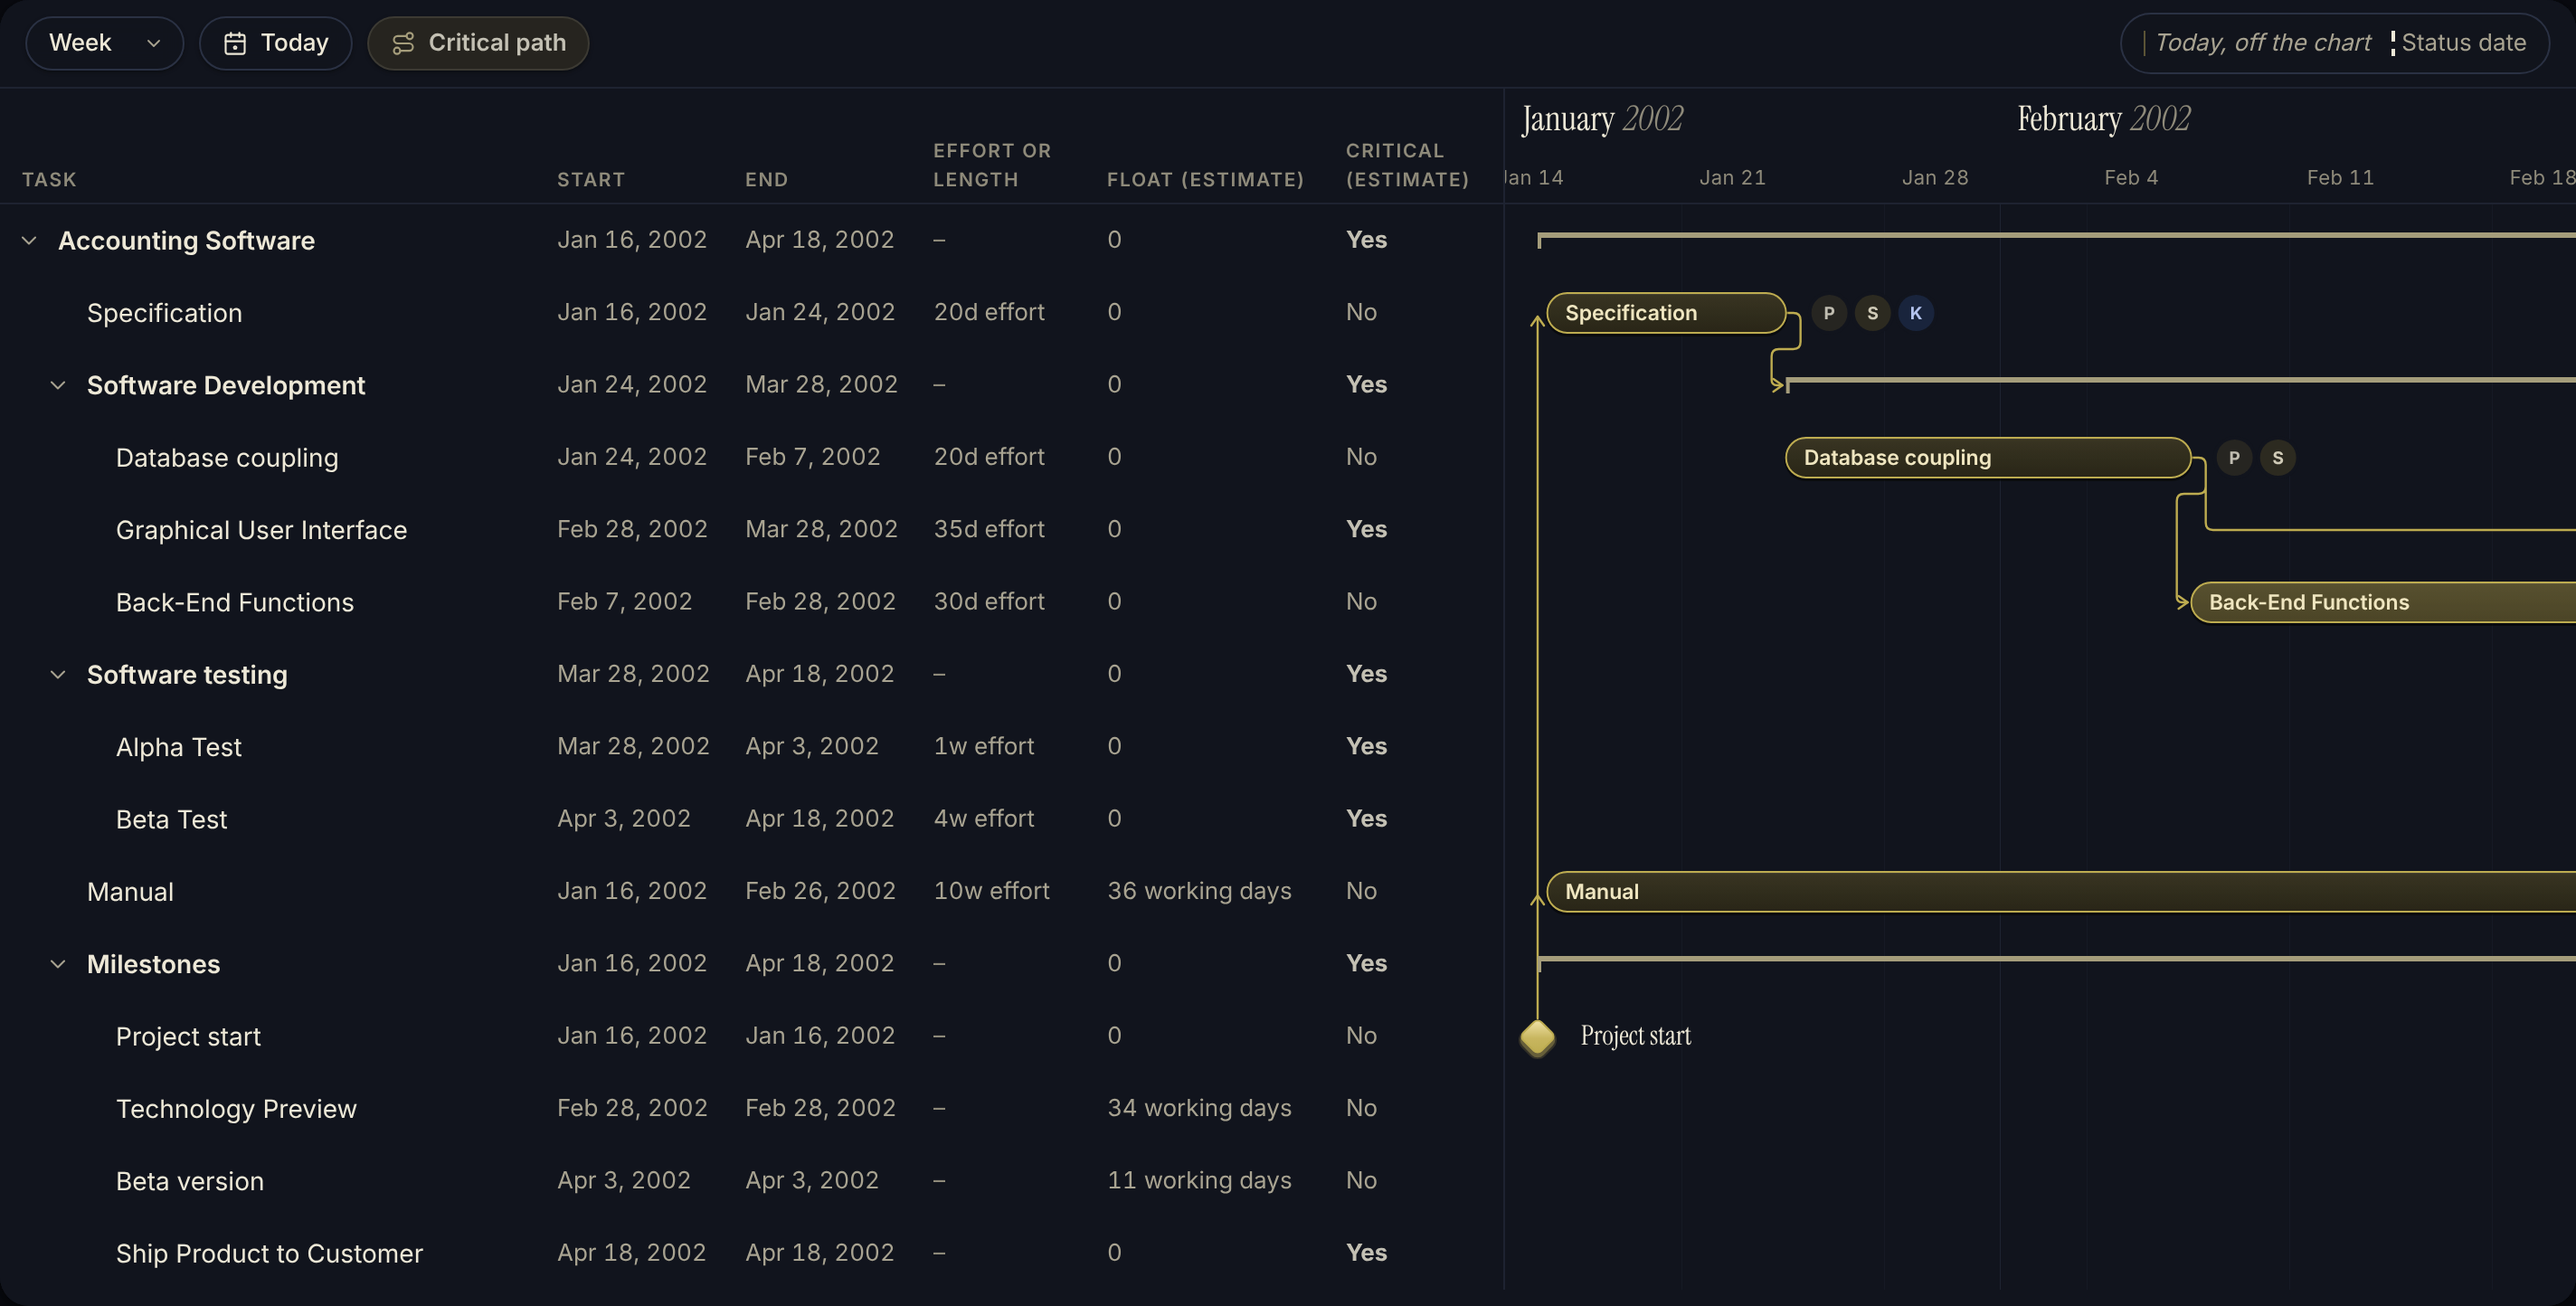
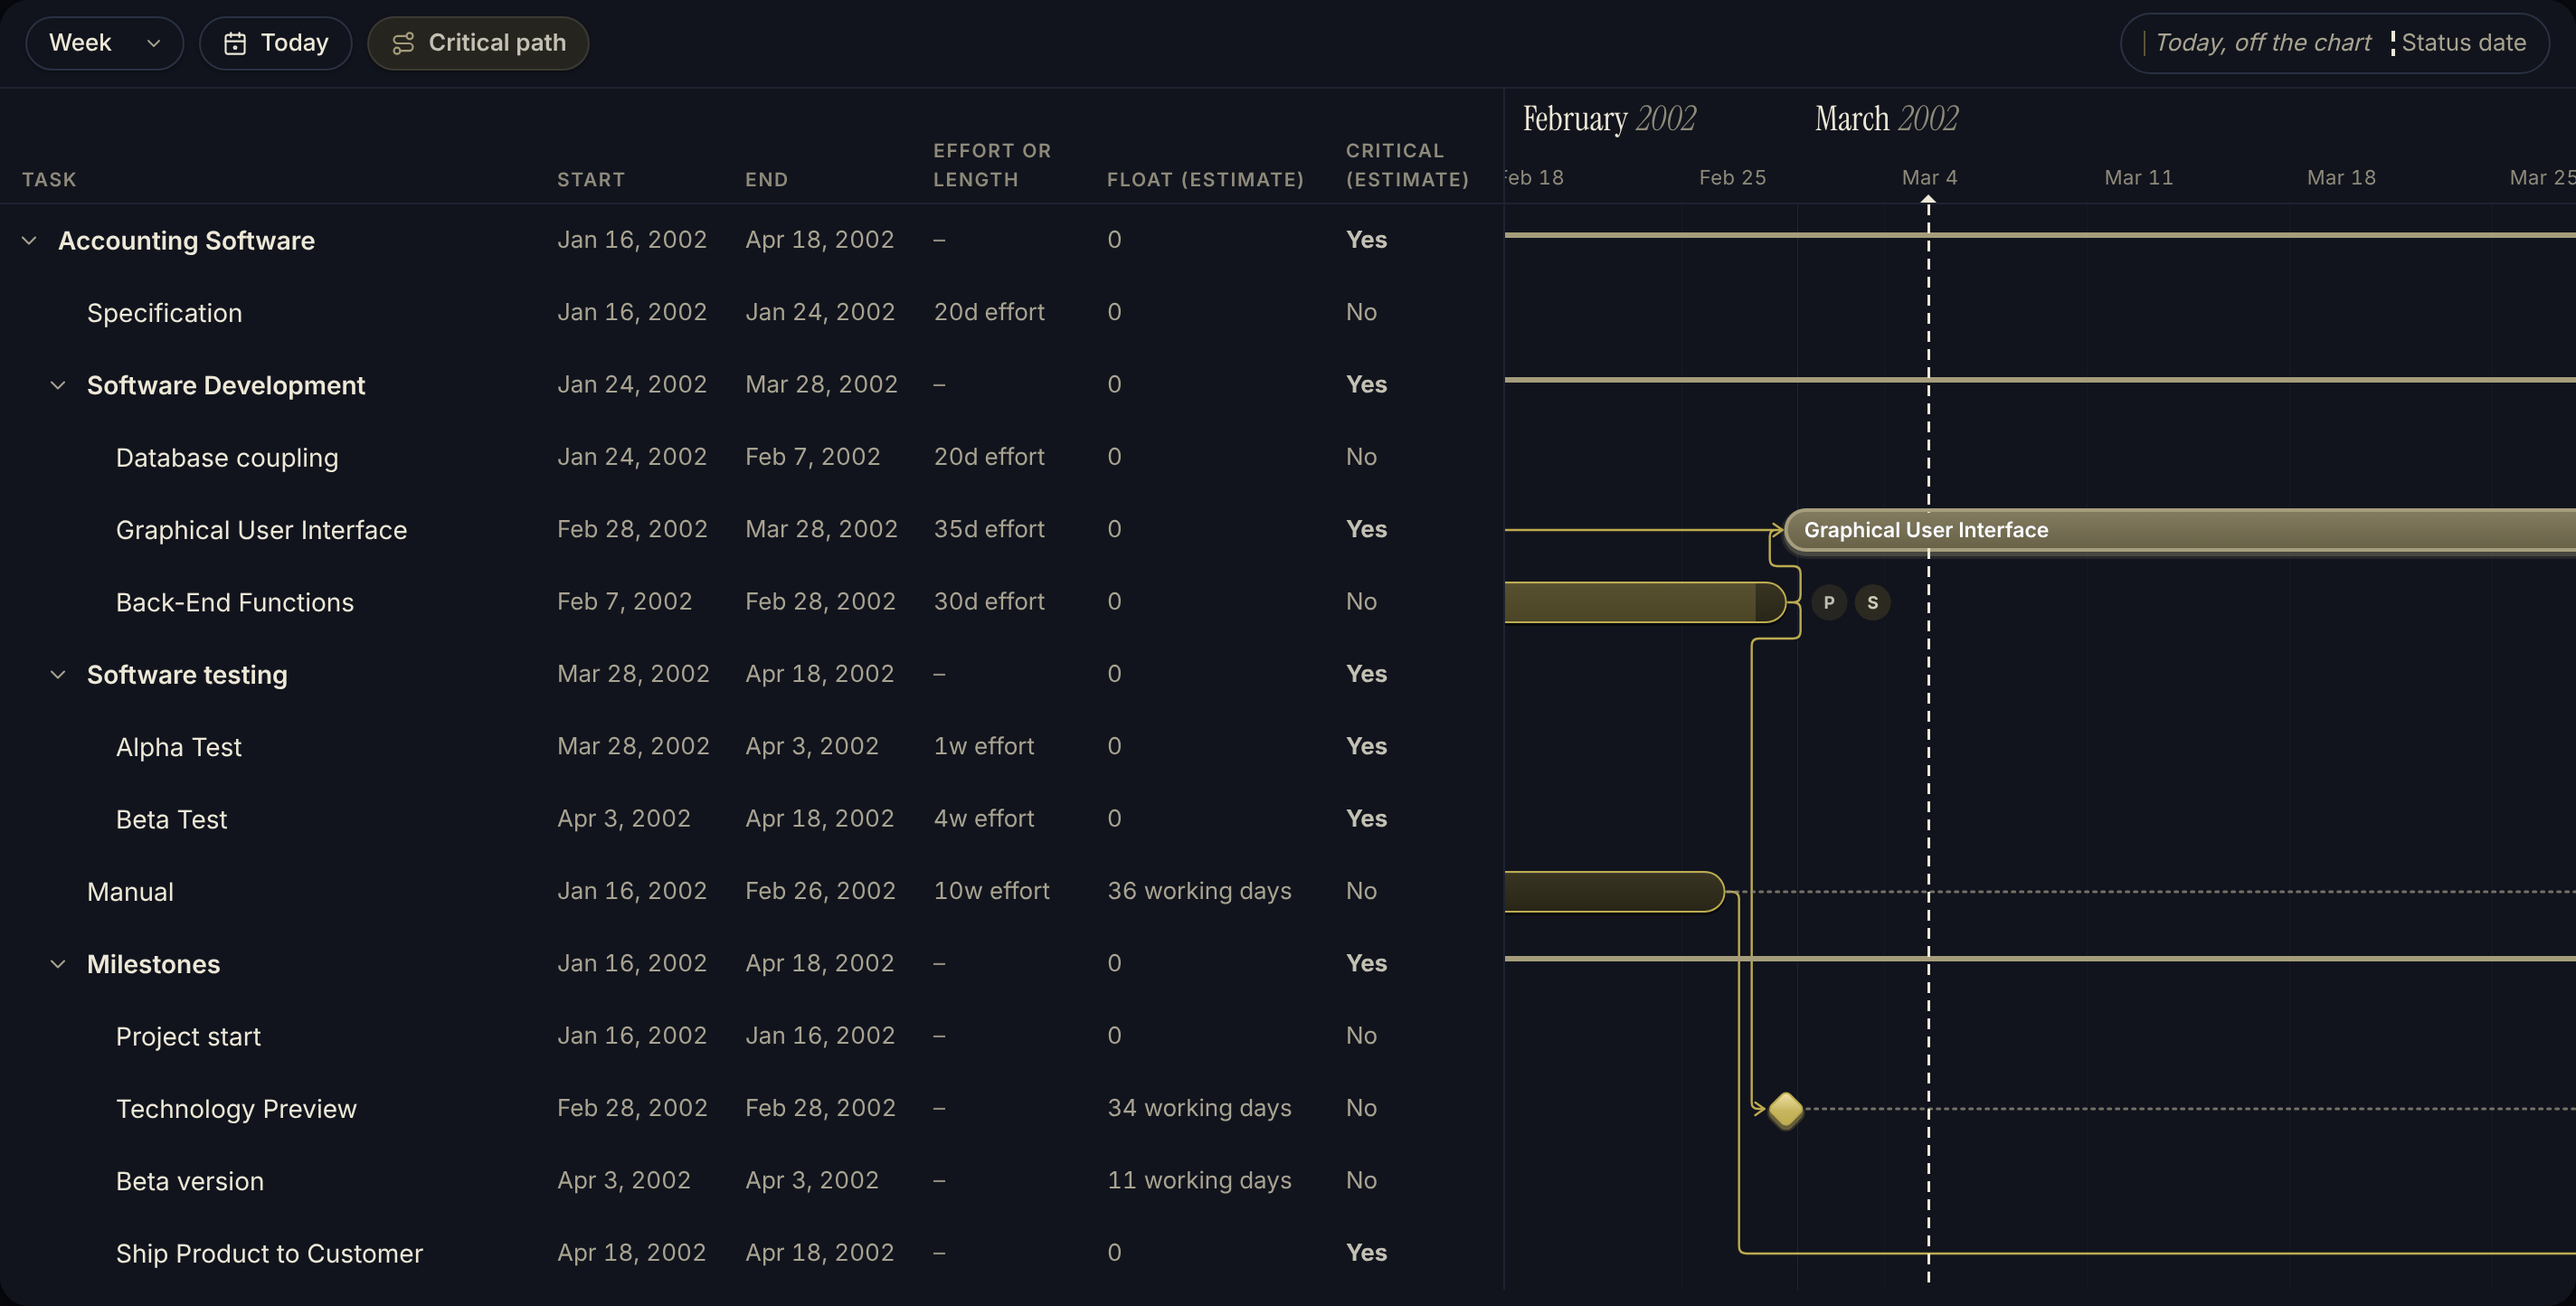
fix(gantt): draw the critical bar's edge in a lighter ruby that shows on the fill
Claude-Session: https://claude.ai/code/session_018x5vMW7RJi75erXSGU1vHa

diff --git a/src/lib/gantt/paint/bars.ts b/src/lib/gantt/paint/bars.ts
@@ -145,7 +145,7 @@ function drawPost(f: PaintFrame, bar: Rect): void {
 	ctx.fillRect(bar.x + bar.w + theme.criticalEdgeWidth, cy - h / 2, theme.criticalPostWidth, h);
 }
 
-/** A brass pill, or with `steel` a critical one: a heavier edge in the critical colour. */
+/** A brass pill, or with `steel` a critical one: a heavier edge in a lighter ruby. */
 function drawPill(f: PaintFrame, row: GanttRow, bar: Rect, steel: boolean): void {
 	const { ctx, theme } = f;
 	// A short bar keeps its width and a smaller radius, so it does not turn into a circle.
@@ -178,9 +178,10 @@ function drawPill(f: PaintFrame, row: GanttRow, bar: Rect, steel: boolean): void
 	ctx.restore();
 
 	// The edge: a 1 px outline in brass so that a pale bar meets 3:1 (WCAG 1.4.11), and a heavier
-	// one in the critical colour, which is also the shape cue of the critical path.
+	// one in a lighter ruby, which is also the shape cue of the critical path: lighter than the
+	// fill so that it shows on it (it was the fill's own colour), also for protan and deutan eyes.
 	roundedRect(ctx, bar.x, bar.y, bar.w, bar.h, radius);
-	ctx.strokeStyle = steel ? theme.critical : theme.barOutline;
+	ctx.strokeStyle = steel ? theme.criticalEdge : theme.barOutline;
 	ctx.lineWidth = steel ? theme.criticalEdgeWidth : theme.barOutlineWidth;
 	ctx.stroke();
 }
@@ -230,7 +231,7 @@ function drawJewel(f: PaintFrame, bar: Rect, critical: boolean): void {
 	diamondPath(ctx, cx, cy, half, theme.milestoneRadius);
 	fillUnit(f, gradientFor(ctx, theme, critical ? 'steelJewel' : 'jewel'), cx, cy, half);
 	// The upper half of the light jewel is under 3:1 on the light panel: an edge brings it up.
-	ctx.strokeStyle = critical ? theme.critical : theme.link;
+	ctx.strokeStyle = critical ? theme.criticalEdge : theme.link;
 	ctx.lineWidth = critical ? theme.criticalEdgeWidth : theme.barOutlineWidth;
 	ctx.stroke();
 }

diff --git a/tests/ci/palette.test.ts b/tests/ci/palette.test.ts
@@ -163,6 +163,15 @@ const DISTINCT: ReadonlyArray<readonly [string, string, string]> = [
 	['color-gantt-critical-bottom', 'color-gantt-bar-outline', 'critical bar edge and bar outline'],
 ];
 
+/**
+ * The critical bar's edge must show on its own fill, at both ends of the gradient, for normal
+ * vision and for protan and deutan viewers: [edge token, fill token].
+ */
+const EDGES: ReadonlyArray<readonly [string, string]> = [
+	['color-gantt-critical-edge', 'color-gantt-critical-top'],
+	['color-gantt-critical-edge', 'color-gantt-critical-bottom'],
+];
+
 describe.each([
 	['light', 'theme-light.css'],
 	['dark', 'theme-dark.css'],
@@ -184,6 +193,17 @@ describe.each([
 
 	it.each(GRAPHICS)('graphic %s on %s is at least %d:1', (fg, bg, min) => {
 		expect(ratio(colour(t, fg), colour(t, bg))).toBeGreaterThanOrEqual(min);
+	});
+
+	it.each(EDGES)('%s shows on %s, also for protan and deutan viewers', (edge, fill) => {
+		for (const m of [null, PROTAN, DEUTAN] as const) {
+			const [a, b] = [colour(t, edge), colour(t, fill)];
+			const [x, y] = m ? [simulate(a, m), simulate(b, m)] : [a, b];
+			expect(
+				ratio(x, y),
+				m === PROTAN ? 'protan' : m === DEUTAN ? 'deutan' : 'normal',
+			).toBeGreaterThanOrEqual(2.5);
+		}
 	});
 
 	it('keeps the stale label readable on the glass chip too', () => {

diff --git a/src/lib/gantt/paint/bars.test.ts b/src/lib/gantt/paint/bars.test.ts
@@ -102,7 +102,7 @@ describe('paintBars', () => {
 		expect(fills[0]).toBe(t.criticalShadow);
 		expect(fills).toContain(t.criticalInk);
 		// The edge: heavier than the brass outline, in the critical colour.
-		expect(rec.of('set:strokeStyle').map((c) => c[1])).toEqual([t.critical]);
+		expect(rec.of('set:strokeStyle').map((c) => c[1])).toEqual([t.criticalEdge]);
 		expect(rec.of('set:lineWidth').map((c) => c[1])).toEqual([t.criticalEdgeWidth]);
 		expect(t.criticalEdgeWidth).toBeGreaterThan(t.barOutlineWidth);
 		// The post: past the bar's finish edge, taller than the bar by the reach on each side.
@@ -128,7 +128,7 @@ describe('paintBars', () => {
 		const jewel = frameOf(modelOf([row(0, 2 * D, 2 * D, 'milestone', { critical: true })]));
 		paintBars(jewel.frame);
 		expect(jewel.rec.of('set:lineWidth').map((c) => c[1])).toEqual([t.criticalEdgeWidth]);
-		expect(jewel.rec.of('set:strokeStyle').map((c) => c[1])).toEqual([t.critical]);
+		expect(jewel.rec.of('set:strokeStyle').map((c) => c[1])).toEqual([t.criticalEdge]);
 		expect(jewel.rec.of('fillRect').some((c) => c[3] === t.criticalPostWidth)).toBe(false);
 	});
 

diff --git a/tests/e2e/polish-screenshots.spec.ts b/tests/e2e/polish-screenshots.spec.ts
@@ -110,12 +110,11 @@ test.describe('polish screenshots', () => {
 				test.skip(!mine(info));
 				await page.emulateMedia({ colorScheme: scheme });
 				await open(page, TUTORIAL, device);
-				if (device === 'pixel7') {
-					await page.getByTestId('gantt').evaluate((g) => {
-						const s = g.querySelector('.scroller');
-						if (s) s.scrollLeft = (s.scrollWidth - s.clientWidth) * 0.55;
-					});
-				}
+				// The critical stretch of the tutorial (Graphical User Interface, the tests): scroll to it.
+				await page.getByTestId('gantt').evaluate((g) => {
+					const s = g.querySelector('.scroller');
+					if (s) s.scrollLeft = (s.scrollWidth - s.clientWidth) * 0.55;
+				});
 				await page.waitForTimeout(500);
 				await shot(page.getByTestId('gantt'), `polish-5-critical-edge-${device}-${scheme}`);
 				for (const [kind, matrix] of Object.entries(CVD)) {

diff --git a/src/styles/theme-light.css b/src/styles/theme-light.css
@@ -118,6 +118,10 @@
 	--color-gantt-critical-progress: rgb(255 255 255 / 0.2);
 	--color-gantt-critical-highlight: rgb(255 255 255 / 0.28);
 	--color-gantt-critical-shadow: rgb(163 18 58 / 0.3);
+	/* The critical bar's edge: a lighter ruby, 2.8:1 or more against both ends of the fill, also
+	   for protan and deutan viewers (tests/ci/palette.test.ts). The ruby edge it replaced was the
+	   fill's own colour. */
+	--color-gantt-critical-edge: #f6a9bc;
 	--color-gantt-summary: #7a7262;
 	--color-gantt-milestone: #b08d3c;
 	--color-gantt-jewel-high: #f1d99a;

diff --git a/src/lib/gantt/paint/theme.ts b/src/lib/gantt/paint/theme.ts
@@ -42,6 +42,7 @@ const COLOURS = {
 	criticalProgress: ['--color-gantt-critical-progress', 'rgb(255 255 255 / 0.18)'],
 	criticalHighlight: ['--color-gantt-critical-highlight', 'rgb(255 255 255 / 0.25)'],
 	criticalShadow: ['--color-gantt-critical-shadow', 'rgb(163 18 58 / 0.3)'],
+	criticalEdge: ['--color-gantt-critical-edge', '#f6a9bc'],
 	summary: ['--color-gantt-summary', '#7a7262'],
 	milestone: ['--color-gantt-milestone', '#b08d3c'],
 	jewelHigh: ['--color-gantt-jewel-high', '#f1d99a'],

diff --git a/src/styles/theme-dark.css b/src/styles/theme-dark.css
@@ -102,6 +102,7 @@
 	--color-gantt-critical-progress: rgb(255 255 255 / 0.18);
 	--color-gantt-critical-highlight: rgb(255 255 255 / 0.22);
 	--color-gantt-critical-shadow: rgb(240 98 126 / 0.28);
+	--color-gantt-critical-edge: #ffc2cf;
 	--color-gantt-summary: #b9af98;
 	--color-gantt-milestone: #d2ae5c;
 	--color-gantt-jewel-high: #f6e3ae;

diff --git a/docs/phases/phase-2-polish.md b/docs/phases/phase-2-polish.md
@@ -10,7 +10,7 @@ phone and a desktop screenshot. An item is struck through when its fix merges.
 | 2 | Screenshot review | ~~**The today and status-date lines cross bar labels.** Most visible in dark mode ("Item 9" and "Item 10" on gantt-500).~~ **Fixed:** the today and status-date lines leave a gap where they cross a name (a halo was not possible: the lines are on the overlay layer above the bars, so the line gives way instead; same code in both themes). Pictures: `polish-2-marker-labels-*`. | Overlay or bars painter | Paint the marker lines under the label layer, or give labels a ground-coloured halo. |
 | 3 | Screenshot review | ~~**Labels of short bars sit outside the bar and can collide** with links and the today line.~~ **Fixed:** the layout reserves each name's run (`labels.ts`, `GanttLayout.labels`, one rule shared with the painter); hit testing leaves links out of it; link legs step off the names of the rows they pass. Not done: a leg that has no room to step off still runs through a name (it is then drawn over by the text), and the float tail is not reserved. | Bars painter, layout | Reserve the label run in hit testing and layout, and route links around it where possible. |
 | 4 | T14 review (6) | ~~**A sliver of the ending month's label ("l 2013") shows by the task column** as the next month pushes it out.~~ **Fixed:** the month label fades as the room left in its cell falls below its width and is gone at half of it (`fade.ts`, `TimeHeader.svelte`). The fade follows the scroll event, so on a fast fling it can trail the compositor by a frame. Pictures: `polish-4-month-sliver-*` (four scroll offsets, `-before` pairs). | `src/components/gantt/TimeHeader.svelte` | Fade the label out as its cell's remaining width falls below the label width. |
-| 5 | T14 report | **The critical bar's edge is drawn in the critical colour,** so on a ruby fill it barely shows. The finish post carries the cue for now. | Bars painter | A lighter or darker ruby edge. Check under protanopia and deuteranopia. |
+| 5 | T14 report | ~~**The critical bar's edge is drawn in the critical colour,** so on a ruby fill it barely shows. The finish post carries the cue for now.~~ **Fixed:** a new `--color-gantt-critical-edge` token in both themes (light `#f6a9bc`, dark `#ffc2cf`), at least 2.8:1 against both ends of the ruby fill for normal vision, protanopia and deuteranopia (checked in `tests/ci/palette.test.ts` and in the simulated pictures `polish-5-critical-edge-protanopia-*` and `-deuteranopia-*`). | Bars painter | A lighter or darker ruby edge. Check under protanopia and deuteranopia. |
 | 6 | T14 review (7) | **On a phone, the hidden Plan tab's outline stays mounted.** That is about 2,800 extra DOM nodes on gantt-500. | `App.svelte`, outline | Unmount, or virtualise, while hidden. Measure in T22. |
 | 7 | T14 review | ~~**`model.todayMin` is now always null.** The overlay and header take `todayMin` from `todayOf`, so a future caller that reads the model's field gets nothing.~~ **Fixed:** the field and `nowMs` are removed from the model; the overlay, the header and `markerState` take the clock from `todayOf`. | `src/lib/gantt/model.ts` | Remove the field, or fill it from `todayOf`. |
 | 8 | User, 2026-11-13 | **Use the phone screen better.** The chart should get more of the screen. | Phone layout (`App.svelte`, `TopBar.svelte`, `GanttToolbar.svelte`) | Task details in a slide-up bottom sheet: already specified in T17 (half height, drag to full, 44 px steppers). Beyond that: a slimmer top bar, chips that collapse into one control, a narrower name column with a swipe to widen it, and the "Changes stay in this tab" note folded into the status line. Mock it on the design canvas first. |
